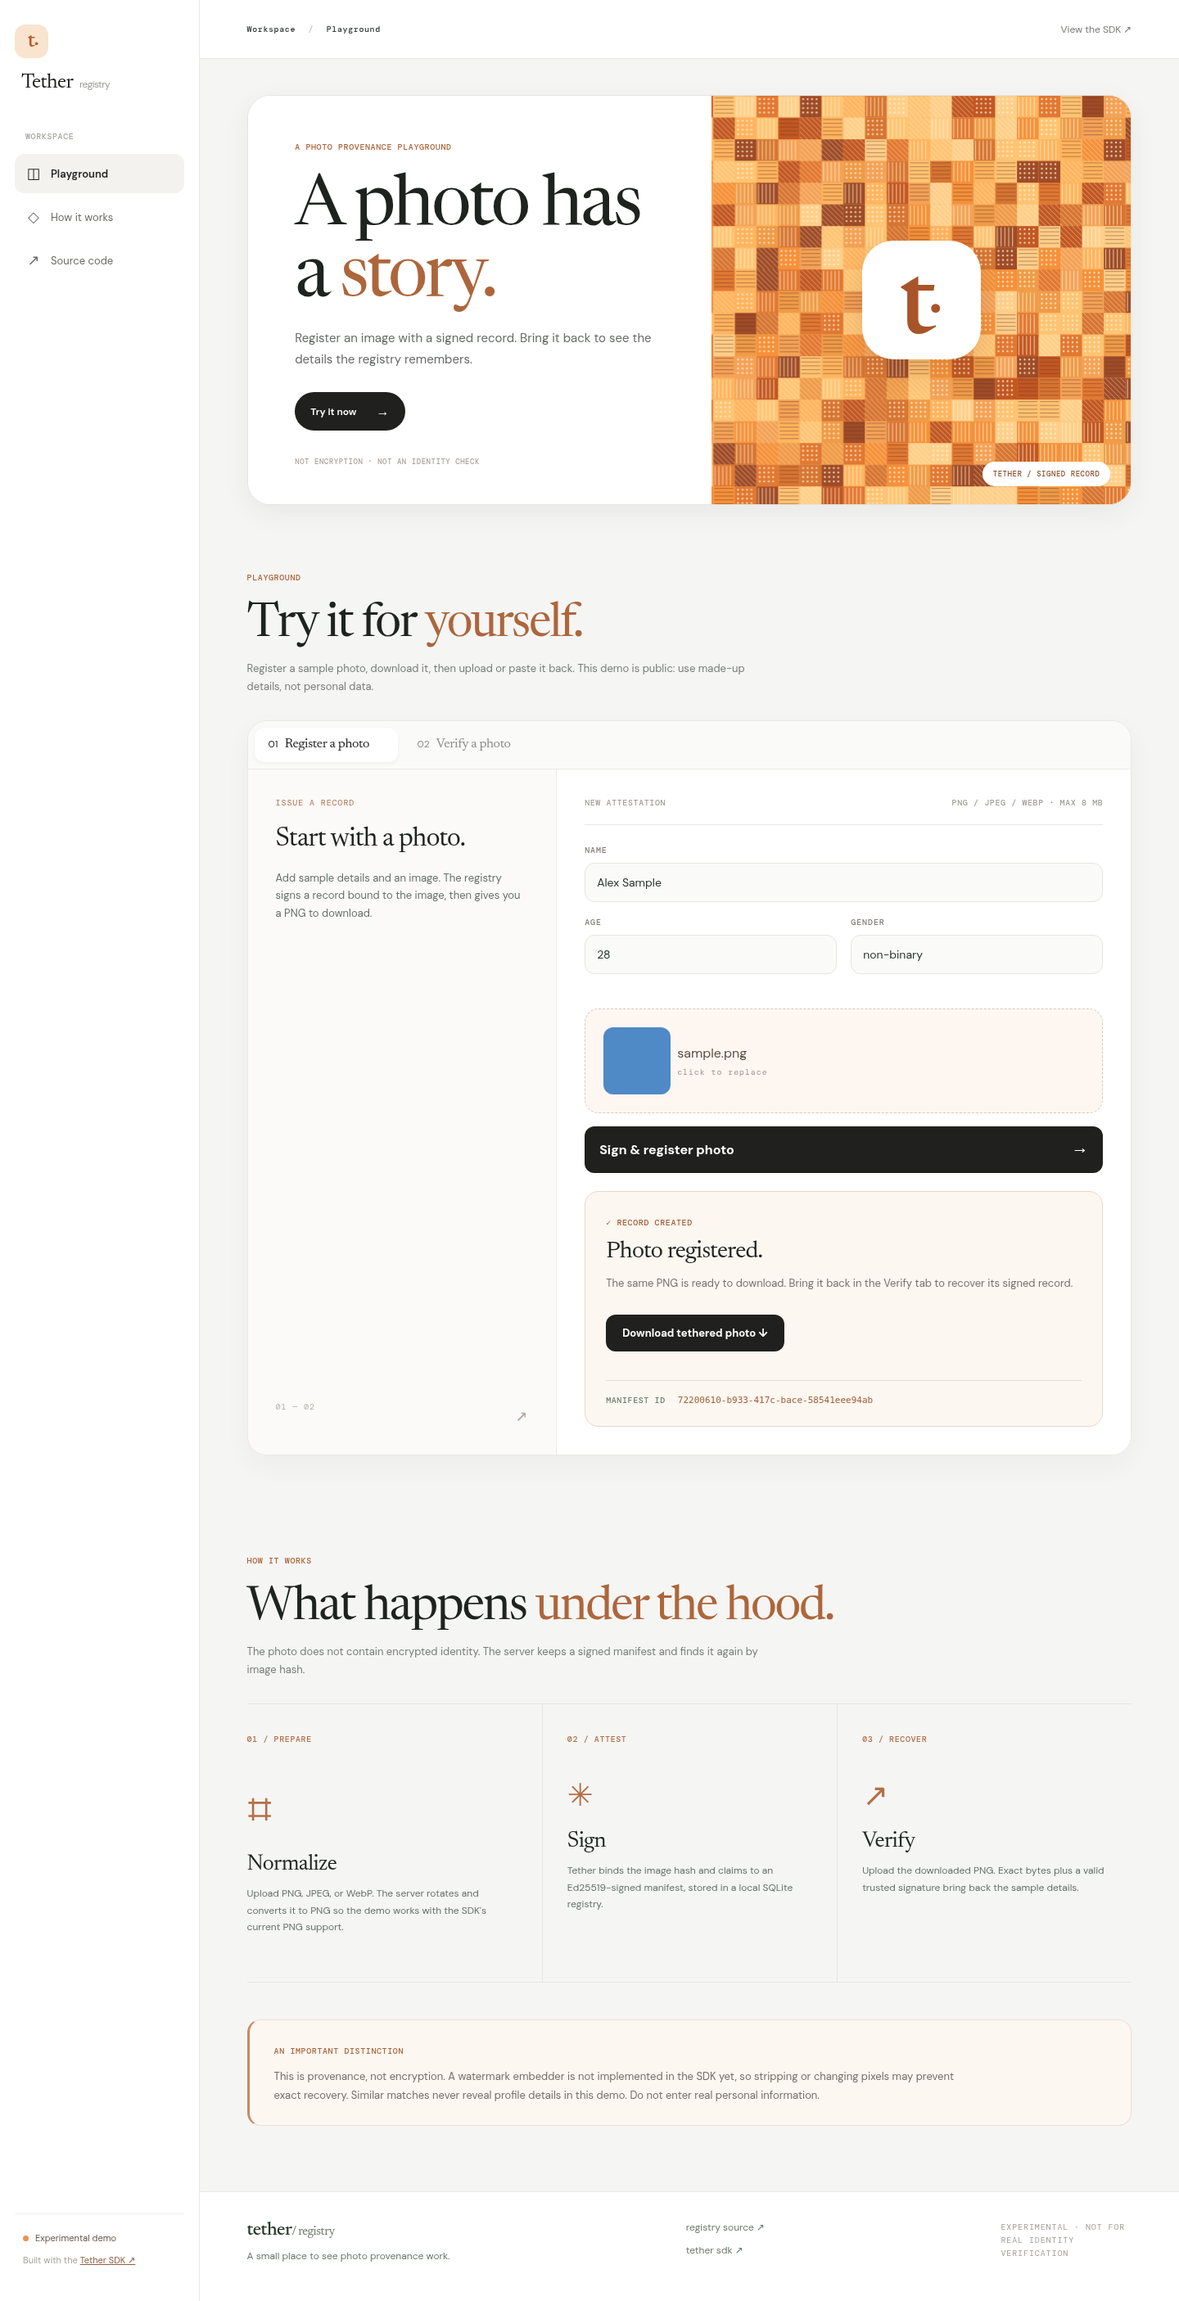
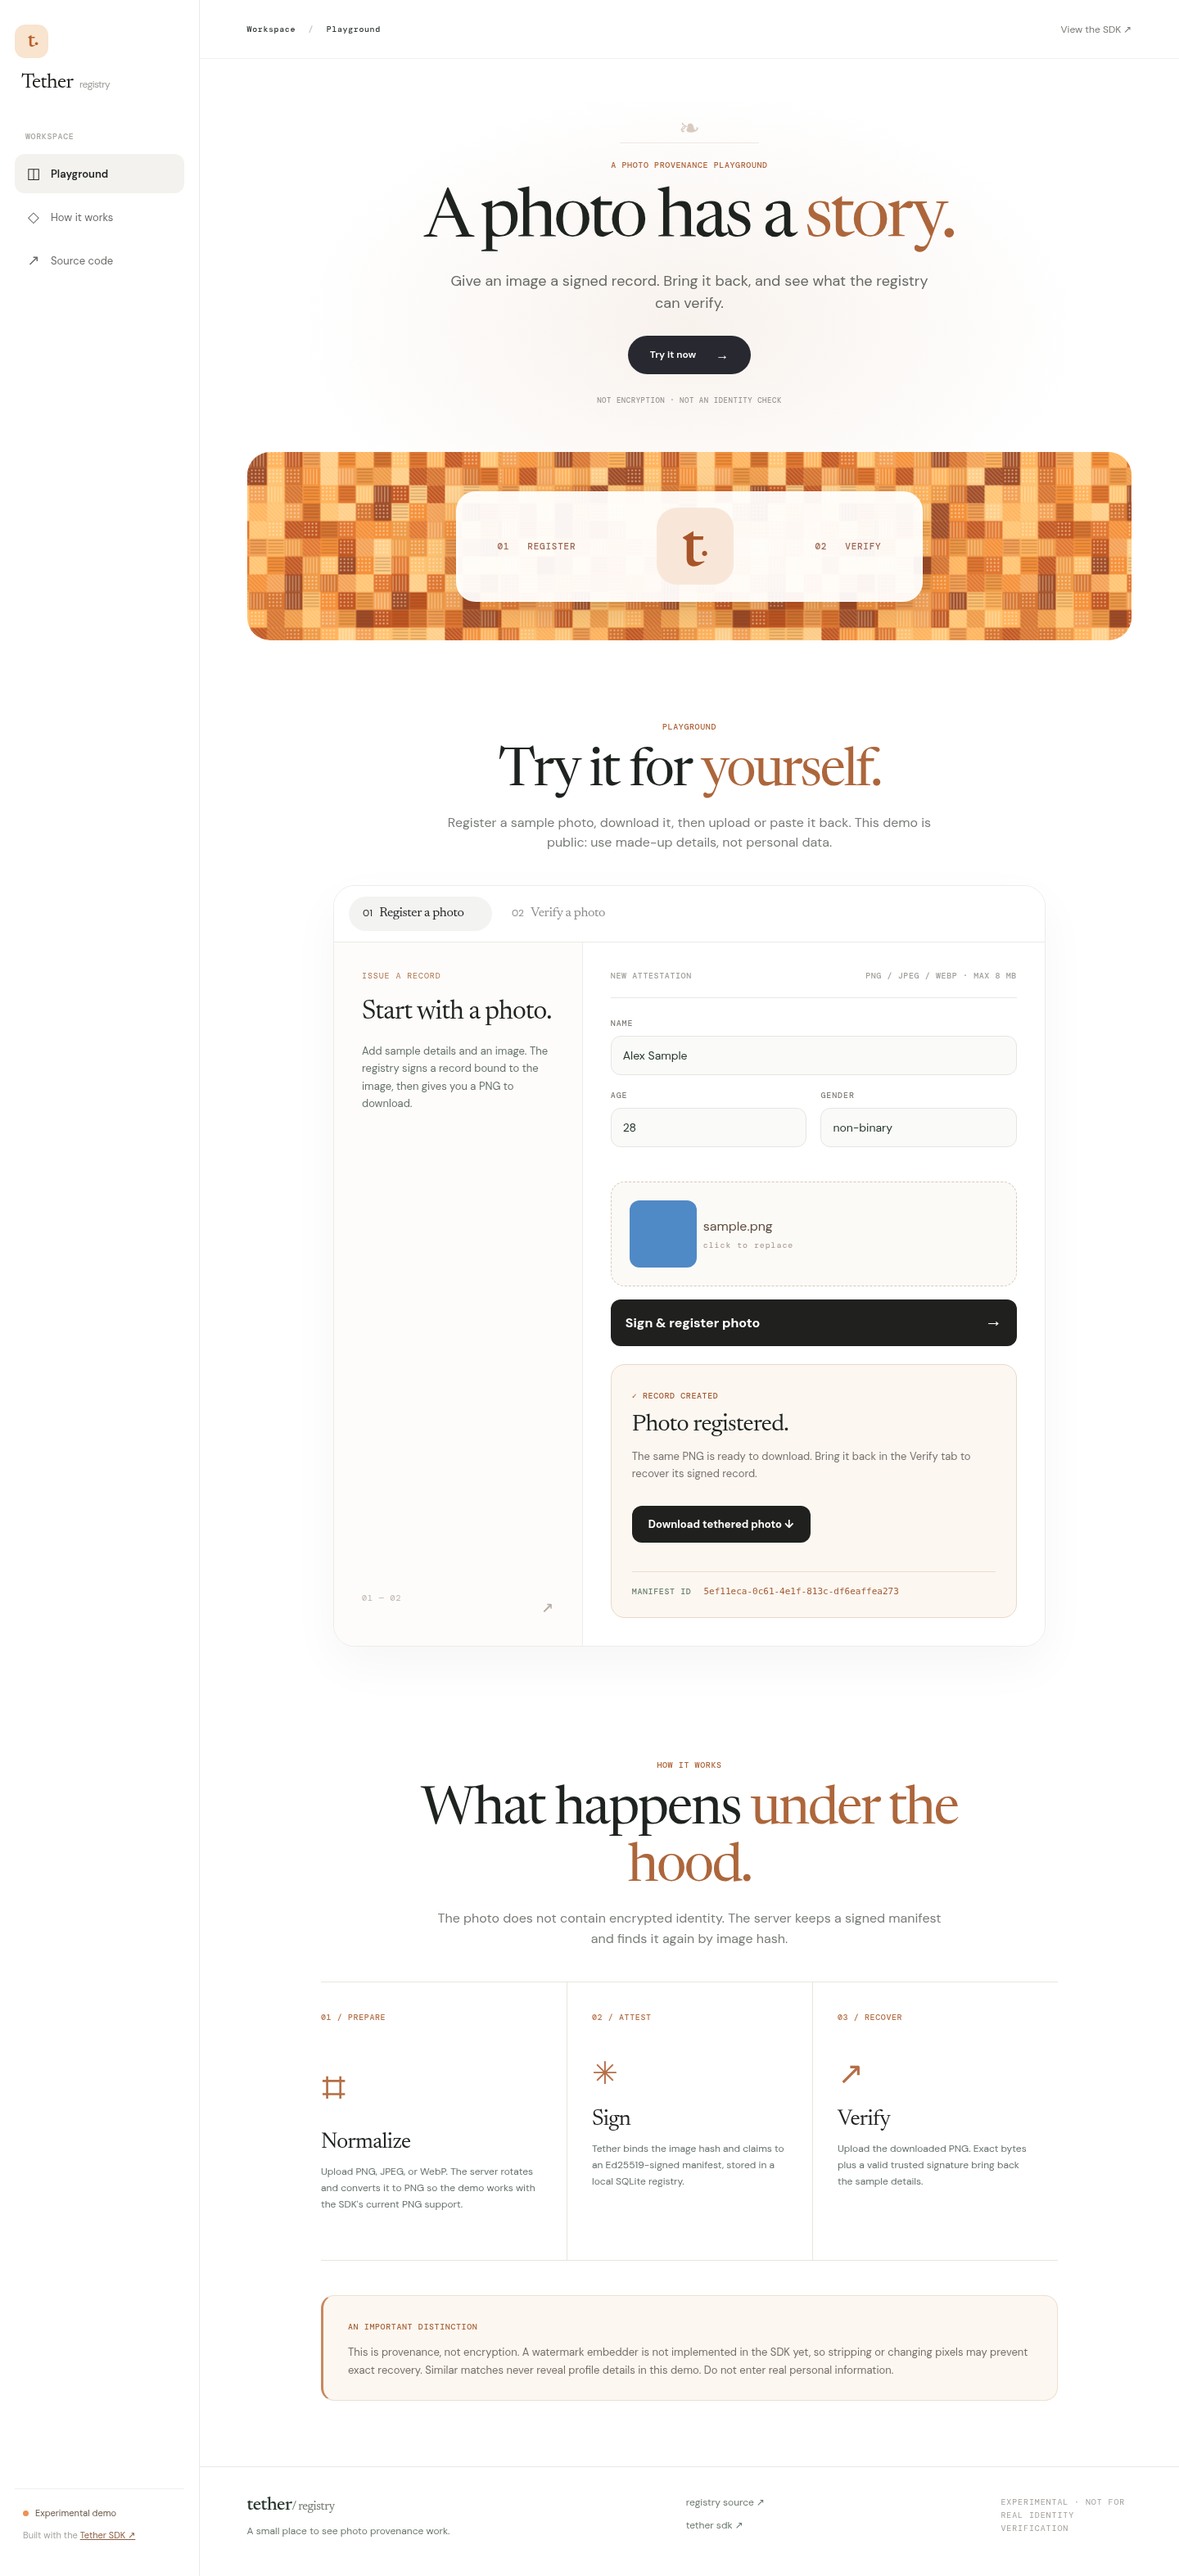
Refine registry display after Sarvam typography study

diff --git a/src/main.jsx b/src/main.jsx
@@ -40,7 +40,7 @@ function App() {
       <div className="side-bottom"><div className="side-pill"><span className="live-dot"/> Experimental demo</div><p>Built with the <a href="https://github.com/specterbuilds/tether">Tether SDK ↗</a></p></div>
     </aside>
     <div className="app-content"><header className="app-header"><div className="crumb">Workspace <span>/</span> Playground</div><a href="https://github.com/specterbuilds/tether" target="_blank" rel="noreferrer">View the SDK ↗</a></header>
-    <main id="top"><section className="hero"><div className="hero-grid"><div className="hero-copy"><div className="eyebrow">A PHOTO PROVENANCE PLAYGROUND</div><h1>A photo has<br />a <em>story.</em></h1><p>Register an image with a signed record. Bring it back to see the details the registry remembers.</p><a className="hero-link" href="#playground">Try it now <Arrow /></a><div className="hero-caveat">NOT ENCRYPTION · NOT AN IDENTITY CHECK</div></div><div className="hero-art" aria-hidden="true"><div className="texture-icon">t<span>·</span></div><div className="texture-caption">TETHER / SIGNED RECORD</div></div></div></section>
+    <main id="top"><section className="hero"><div className="hero-grid"><div className="hero-copy"><div className="hero-motif" aria-hidden="true">❧</div><div className="eyebrow">A PHOTO PROVENANCE PLAYGROUND</div><h1>A photo has a <em>story.</em></h1><p>Give an image a signed record. Bring it back, and see what the registry can verify.</p><a className="hero-link" href="#playground">Try it now <Arrow /></a><div className="hero-caveat">NOT ENCRYPTION · NOT AN IDENTITY CHECK</div></div><div className="hero-art" aria-hidden="true"><div className="texture-stage"><span>01 &nbsp; REGISTER</span><div className="texture-icon">t<span>·</span></div><span>02 &nbsp; VERIFY</span></div></div></div></section>
     <section id="playground" className="playground"><div className="section-head"><span className="kicker">PLAYGROUND</span><h2>Try it for <em>yourself.</em></h2><p>Register a sample photo, download it, then upload or paste it back. This demo is public: use made-up details, not personal data.</p></div><div className="workspace"><div className="tabs" role="tablist"><button role="tab" aria-selected={mode === 'register'} className={mode === 'register' ? 'active' : ''} onClick={() => switchMode('register')}>01 <span>Register a photo</span></button><button role="tab" aria-selected={mode === 'verify'} className={mode === 'verify' ? 'active' : ''} onClick={() => switchMode('verify')}>02 <span>Verify a photo</span></button></div><div className="work-body"><div className="work-intro"><span className="micro">{mode === 'register' ? 'ISSUE A RECORD' : 'LOOK UP A RECORD'}</span><h3>{mode === 'register' ? 'Start with a photo.' : 'Bring it back.'}</h3><p>{mode === 'register' ? 'Add sample details and an image. The registry signs a record bound to the image, then gives you a PNG to download.' : 'Upload or paste the downloaded PNG. If its bytes match a trusted registry record, the signed details come back.'}</p><div className="work-index">{mode === 'register' ? '01 — 02' : '02 — 02'} <span>↗</span></div></div><form onSubmit={submit} className="form-panel"><div className="form-title"><span>{mode === 'register' ? 'NEW ATTESTATION' : 'LOOKUP'}</span><span>PNG / JPEG / WEBP · MAX 8 MB</span></div>{mode === 'register' && <div className="fields"><label>NAME<input required maxLength="80" placeholder="e.g. Alex Sample" value={name} onChange={e => setName(e.target.value)} /></label><div className="field-row"><label>AGE<input required type="number" min="18" max="120" placeholder="e.g. 28" value={age} onChange={e => setAge(e.target.value)} /></label><label>GENDER<input required maxLength="40" placeholder="e.g. non-binary" value={gender} onChange={e => setGender(e.target.value)} /></label></div></div>}
       <div className={'dropzone ' + (photo ? 'has-photo' : '')} onDragOver={e => e.preventDefault()} onDrop={e => { e.preventDefault(); select(e.dataTransfer.files[0]); }} onClick={() => input.current?.click()} role="button" tabIndex={0} onKeyDown={e => { if (e.key === 'Enter') input.current?.click(); }}><input ref={input} type="file" accept="image/png,image/jpeg,image/webp" onChange={e => select(e.target.files[0])} hidden />{preview ? <><img src={preview} alt="Selected photo preview" /><div className="drop-text"><span>{photo?.name || 'pasted image'}</span><small>click to replace</small></div></> : <><span className="upload-icon">↥</span><strong>{mode === 'verify' ? 'Drop, choose or paste your photo' : 'Drop or choose a photo'}</strong><small>{mode === 'verify' ? 'Ctrl/⌘ + V works anywhere on this page' : 'Your photo becomes a normalized PNG'}</small></>}</div><button className="submit" disabled={busy} type="submit">{busy ? 'Working…' : mode === 'register' ? 'Sign & register photo' : 'Verify this photo'} <Arrow /></button>{error && <div className="error" role="alert">{error}</div>}
       {result && mode === 'register' && <div className="result" role="status"><span className="result-kicker">✓ RECORD CREATED</span><h4>Photo registered.</h4><p>The same PNG is ready to download. Bring it back in the Verify tab to recover its signed record.</p><a className="download" href={result.downloadUrl} download="tethered-photo.png">Download tethered photo ↓</a><div className="result-id">MANIFEST ID <code>{result.manifestId}</code></div></div>}

diff --git a/src/redesign.css b/src/redesign.css
@@ -25,3 +25,22 @@ h1,h2,h3,h4,h5,h6,
 .tabs button span{font-size:16px;line-height:1.1}
 .dropzone strong{font-size:19px;line-height:1.2}
 @media(max-width:540px){.tabs button span{font-size:14px}}
+/* Sarvam-inspired display rhythm: whitespace leads; the artwork follows. */
+.app-content{background:#fff}.app-header{border-color:#f0f0ef}.hero{padding:0 clamp(24px,4vw,65px)}
+.hero-grid{display:flex;flex-direction:column;min-height:0;border:0;border-radius:0;box-shadow:none;background:transparent;margin:0;overflow:visible}
+.hero-copy{min-height:480px;display:flex;flex-direction:column;align-items:center;justify-content:center;text-align:center;padding:65px 18px 54px;background:radial-gradient(ellipse at 50% 68%,#f8f2ed 0%,#fff 62%)}
+.hero-motif{font-family:Georgia,serif;font-size:31px;font-weight:400;color:#d7cbc0;border-bottom:1px solid #eee8e3;line-height:1.1;width:170px;margin:0 auto 20px}
+.hero h1{max-width:800px;margin:20px 0 17px;font-size:clamp(56px,6vw,82px);line-height:1.03;font-weight:400;letter-spacing:-.045em}
+.hero-copy p{font-size:18px;line-height:1.5;max-width:590px;margin:0;color:#676864}
+.hero-link{margin:26px 0 0;border-radius:40px;padding:13px 27px;background:#282930;min-width:140px;justify-content:center}
+.hero-caveat{margin-top:26px;color:#9a9794}
+.hero-art{height:230px;min-height:0;width:100%;border-radius:28px;overflow:hidden;display:flex;align-items:center;justify-content:center;background-size:460px auto}
+.texture-stage{position:relative;z-index:1;width:min(570px,90%);height:135px;border-radius:24px;background:#fffffff0;box-shadow:0 12px 45px #62351a2e;display:flex;justify-content:space-around;align-items:center;border:1px solid #ffffffa8}
+.texture-stage>span{font:500 11px 'DM Mono',monospace;letter-spacing:.07em;color:#9e6650}
+.texture-icon{width:94px;height:94px;border-radius:25px;font-size:71px;padding-top:16px;box-shadow:none;background:#f8e7d8}.texture-icon span{font-size:43px;margin-left:-5px}
+.playground{padding-top:93px}.how{padding-top:86px}.section-head{text-align:center}.section-head h2{margin:13px auto 13px;max-width:740px;font-size:clamp(48px,4.5vw,68px)}.section-head p{margin:0 auto 39px;max-width:620px;font-size:16px;line-height:1.55}
+.workspace{max-width:870px;margin:0 auto;border-color:#ececea;box-shadow:0 22px 60px #2425270a;border-radius:26px}
+.tabs{background:#fff;padding:13px 18px}.tabs button{border-radius:30px}.tabs button.active{background:#f3f3f2;box-shadow:none}
+.work-intro{background:#fdfcfa}.form-panel{background:#fff}.how .steps{max-width:900px;margin:0 auto}.how .notice{max-width:900px;margin:42px auto 0}
+@media(max-width:900px){.hero-copy{min-height:390px}.hero-art{height:195px}.hero h1{font-size:clamp(50px,8vw,72px)}.playground,.how{padding-top:75px}}
+@media(max-width:540px){.hero{padding:0 17px}.hero-copy{min-height:350px;padding:38px 7px 26px}.hero h1{font-size:51px}.hero-copy p{font-size:15px}.hero-art{height:155px;border-radius:21px}.texture-stage{height:101px;border-radius:18px}.texture-stage>span{font-size:8px}.texture-icon{width:70px;height:70px;font-size:52px;border-radius:20px;padding-top:11px}.texture-icon span{font-size:30px}.section-head h2{font-size:44px}.section-head p{font-size:14px}.playground,.how{padding-top:60px}}

diff --git a/README.md b/README.md
@@ -8,7 +8,7 @@ A React playground and persistent registry for [the Tether SDK](https://github.c
 2. **Download.** Save `tethered-photo.png`. It is a normalized PNG, **not an encrypted or watermarked file**. The signed record lives on the registry server.
 3. **Verify.** Drop, choose or paste the downloaded PNG into the Verify tab. `Tether.verify()` looks up its hash, checks the registry's trusted key and returns the sample details when the bytes match exactly. The database and signing key persist across restarts.
 
-The site has not been deployed. Run it locally using the steps below. Screenshots: [playground](docs/playground.png), [registered photo](docs/registered.png), and [verified details](docs/verified.png), captured from a real browser round trip.
+The site has not been deployed. Run it locally using the steps below. Screenshots: [playground](docs/playground.png), [registered photo](docs/registered.png), [verified details](docs/verified.png), and [mobile](docs/mobile.png), captured from a real browser round trip.
 
 ## Run locally
 
@@ -54,4 +54,4 @@ tests/           restart and round-trip checks
 .github/workflows/ci.yml   builds and checks both projects
 ```
 
-MIT licensed. Visual direction was revised from the user-provided references: a quiet light workspace, rounded panels, a serif display face (Newsreader with Georgia fallback), and an original generated orange pixel/halftone illustration. No reference screenshot or third-party brand asset is embedded.
+MIT licensed. Visual direction began with the user-provided references: a quiet light workspace, rounded panels, a serif display face (Newsreader with Georgia fallback), and an original generated orange pixel/halftone illustration. A later pass studied the live [Sarvam home page](https://www.sarvam.ai/), [Voice Agents](https://www.sarvam.ai/products/voice-agents), and [Text to Speech](https://www.sarvam.ai/apis/text-to-speech) pages for centered editorial headings, restrained body copy, generous whitespace, and a focused live demo below the hero. Newsreader is retained rather than copying Sarvam's proprietary typography. No reference screenshot or third-party brand asset is embedded.
